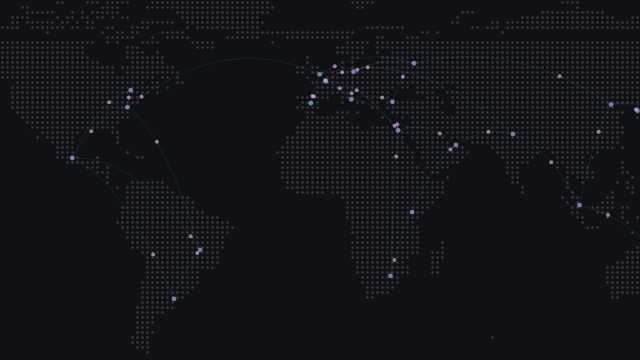
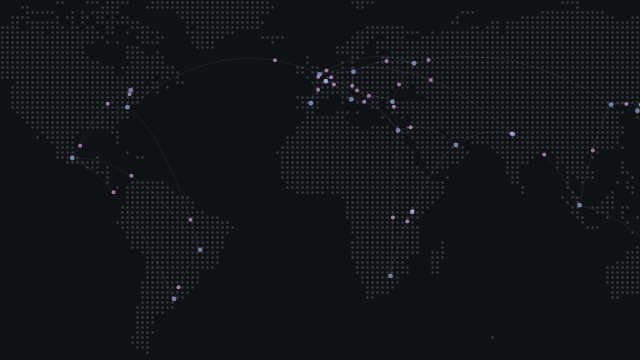
Draft: world routes at one pace, land mask without antimeridian streaks
The land mask was rasterised with a ring of Eurasia jumping across the
antimeridian, which cut and filled rows near 70 degrees north. Rings are now
unwrapped and every cell centre is tested by even-odd. Pulses and planes
travel at a fixed number of pixels a second along every route.

diff --git a/effects/world-routes/index.js b/effects/world-routes/index.js
@@ -73,7 +73,7 @@ const CAPITALS = [[-0.13, 51.51], [-77.04, 38.91], [37.62, 55.76], [116.4, 39.9]
   [46.68, 24.71], [7.49, 9.06], [-74.07, 4.71], [-77.04, -12.05], [18.07, 59.33], [121.47, 31.23], [44.36, 33.31], [69.24, 41.3]];
 // Long routes that join the regions.
 const ROUTES = [[0, 1], [2, 3], [3, 4], [0, 7], [1, 8], [5, 9], [7, 14], [14, 10], [0, 2], [1, 11]];
[2 lines of base64/hex data omitted]
 const SCENE = {
   home: 'dark', seed: 57, reseed: ['density'],
   tones: (read) => ({ground: read('--sf-neutral-5', '#111318'), land: read('--sf-neutral-30', '#45464f'), node: read('--sf-primary-80', '#acc7ff'), pulse: read('--sf-tertiary-80', '#e9b4f2'), hot: read('--sf-primary-90', '#d7e2ff')}),
@@ -162,9 +162,11 @@ const SCENE = {
       ctx.quadraticCurveTo(mx, my, bx, by);
       ctx.stroke();
       ctx.setLineDash([]);
-      const speed = (lit ? arc.speed * 2.2 : arc.speed) * (flights ? 0.35 : 1);
       const point = (q) => [(1 - q) * (1 - q) * ax + 2 * (1 - q) * q * mx + q * q * bx, (1 - q) * (1 - q) * ay + 2 * (1 - q) * q * my + q * q * by];
-      const q = (arc.phase + t * speed) % 1;
+      // The same pace on every route, long or short: so many pixels a second along the curve.
+      if (!arc.length) { arc.length = 0; for (let i = 1, p = point(0); i <= 16; i += 1) { const n = point(i / 16); arc.length += Math.hypot(n[0] - p[0], n[1] - p[1]); p = n; } }
+      const pace = (flights ? 26 : 70) * (lit ? 2 : 1) * (0.85 + arc.speed);
+      const q = (arc.phase + t * pace / Math.max(20, arc.length)) % 1;
       const [qx, qy] = point(q);
       if (flights) {
         // A contrail fading behind the plane, then the plane turned along its course.
